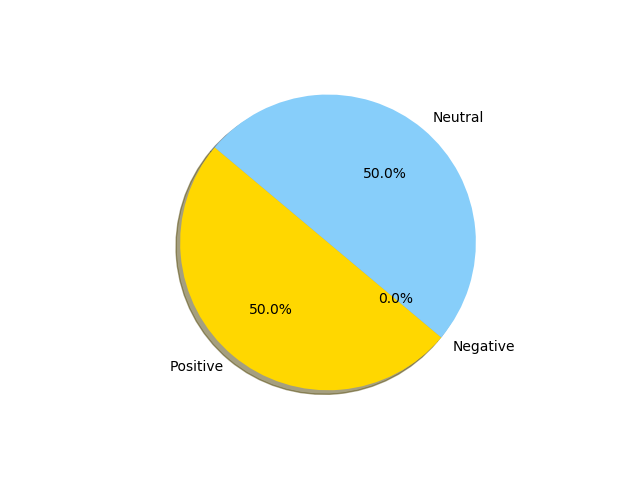
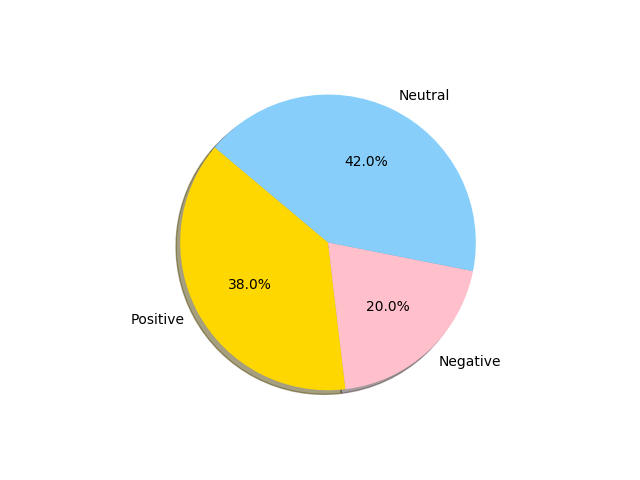
Limited number of tweets that will be displayed.

diff --git a/templates/render_Data.html b/templates/render_Data.html
@@ -81,7 +81,7 @@
     <div class="page-header"><h1 id= "fivetweet"><b>Top Five Recent Tweets</h1><b></div>
       <h1>{{ptweet_analyses}}</h1>
         <ul>
-          {% for ptweet in ptweets %}
+          {% for ptweet in ptweet_render %}
             <li><a href={{ptweet.url}}>{{ ptweet.text }}</a></li>
           {% endfor %}
         </ul>
@@ -89,8 +89,13 @@
 
       <h1>{{ntweets_analyses}}</h1>
         <ul>
-          {% for ntweet in ntweets %}
+          {% for ntweet in ntweet_render %}
             <li><a href={{ntweet.url}}>{{ ntweet.text }}</a></li>
+          {% endfor %}
+        </ul>
+        <ul>
+          {% for word in wordFreq %}
+            <li>  {{word}} </li>
           {% endfor %}
         </ul>
     <div class="page-header"><h1 id= "PieChart"><b>Pie chart</h1><b></div>    

diff --git a/__init__.py b/__init__.py
@@ -2,6 +2,7 @@ from flask import Flask,render_template, url_for, flash, request, send_file, mak
 from wtforms import Form, TextField, TextAreaField, validators, StringField, SubmitField
 import tweepy
 from .sentiment import TwitterClient
+from .wordcount import WordCount
 from .map_bar import data_vis
 import matplotlib.pyplot as plt
 import matplotlib.animation as animation
@@ -35,43 +36,50 @@ app.config['SEND_FILE_MAX_AGE_DEFAULT'] = 1
 class ReusableForm(Form):
         tweets = TextField('SearchField:')
 
-
-def getWordCounts(wordList):
-    result = {}
-    for word in wordList:
-        result.setdefault(word, 0)
-        result[word] += 1
-
-    return result
-
-
-def getFrequentWordsFrom(s):
-    wordNumberToReturn = 10
-
-    scores = getWordCounts(s.split())
-    scores = sorted(scores.items(), key=operator.itemgetter(1))
-    scores = reversed(scores)
-    scores = list(x[0] for x in scores)
-
-    return scores[0:wordNumberToReturn]
-
 def sentiment(userinput):
     # creating object of TwitterClient Class
     api = TwitterClient(userinput)
     # calling function to get tweets
     #searchterm = input("Enter query: ")
-    tweets = api.get_tweets(query=api.searchterm, count=10)
+    tweets = api.get_tweets(query=api.searchterm, count=50)
 
     term  =api.searchterm
 
     # picking positive tweets from tweets
     ptweets = [tweet for tweet in tweets if tweet['sentiment'] == 'positive']
+
+    ptweetstext = ''
+    for tweet in ptweets:
+        ptweetstext += tweet["text"]
+
+    wordFreq = WordCount(ptweetstext).wordCount
+
     #print("Top 10 most frequent words in positive tweets: " + getFrequentWordsFrom(ptweets))
     # percentage of positive tweets
     x = 100 * len(ptweets) / len(tweets)
     
     # picking negative tweets from tweets
     ntweets = [tweet for tweet in tweets if tweet['sentiment'] == 'negative']
+
+    ntweet_render = []
+    count = 0
+    for tweet in ntweets:
+        if count < 5:
+            ntweet_render.append(tweet)
+            count += 1
+
+    ptweet_render = []
+    count = 0
+    for tweet in ptweets:
+        if count < 5:
+            ptweet_render.append(tweet)
+            count += 1
+
+    print("NUMBER OF CONSTRAINED TWEETS:\n")
+    print(len(ntweet_render))
+    print("\n\n")
+
+    
     # percentage of negative tweets
     y = (100 * len(ntweets) / len(tweets))
     
@@ -92,12 +100,12 @@ def sentiment(userinput):
     
     # Convert sentiments analysis stats to string so they can be displayed as HTML
     ptweet_analyses = "Positive tweets:" + str(x) + "%"
-    ntweets_analyses = "Negative tweets:" + str(y)
+    ntweets_analyses = "Negative tweets:" + str(y) + "%"
     nut_tweet_analyses = "Neutral tweets:" + str(z) + "%"
 
     data_vis(tweets, ptweets, ntweets, term)
 
-    return ptweets, ntweets, ptweet_analyses, ntweets_analyses, nut_tweet_analyses
+    return ptweets, ptweet_render,ntweets, ntweet_render, ptweet_analyses, ntweets_analyses, nut_tweet_analyses, wordFreq
 
 
 # We define our URL route, and the controller to handle requests
@@ -110,10 +118,10 @@ def index():
 def render_Data():
     if request.method == 'POST':
         tweets=request.form['tweets']
-        ptweets, ntweets, ptweet_analyses, ntweets_analyses, nut_tweet_analyses = sentiment(tweets)
+        ptweets, ptweet_render,ntweets, ntweet_render, ptweet_analyses, ntweets_analyses, nut_tweet_analyses, wordFreq = sentiment(tweets)
         
-    return render_template('render_Data.html', ptweets = ptweets, ntweets = ntweets, ptweet_analyses = ptweet_analyses,
-    ntweets_analyses = ntweets_analyses, nut_tweet_analyses = nut_tweet_analyses)
+    return render_template('render_Data.html', ptweet_render = ptweet_render, ntweet_render = ntweet_render, ptweet_analyses = ptweet_analyses,
+    ntweets_analyses = ntweets_analyses, nut_tweet_analyses = nut_tweet_analyses, wordFreq = wordFreq)
 
 
 @app.route('/ContactUs', methods = ['GET', 'POST'])

diff --git a/wordcount.py b/wordcount.py
@@ -19,7 +19,7 @@ class WordCount(object):
         words = s.split()     #turn string into a list of words in the string
         words = [x.lower() for x in words] #turn all words in the list to lowercase, to easily take out words we don't want
 
-        stopwords = ['the', 'i', 'from', 'a', 'me', 'thing', 'is', 'of', 'by', 'be', 'any', 'on'] #words we don't want
+        stopwords = ['the', 'i', 'from', 'a', 'me', 'thing', 'is', 'of', 'by', 'be', 'any', 'on', 'my', 'and', 'in', 'are', 'https:', '...', '-'] #words we don't want
         for word in list(words):
             if word in stopwords:
                 words.remove(word) #remove the words we don't want

diff --git a/sentiment.py b/sentiment.py
@@ -57,7 +57,7 @@ class TwitterClient(object):
         else:
             return 'negative'
 
-    def get_tweets(self, query, count=10):
+    def get_tweets(self, query, count=50):
         '''
         Main function to fetch tweets and parse them.
         '''
